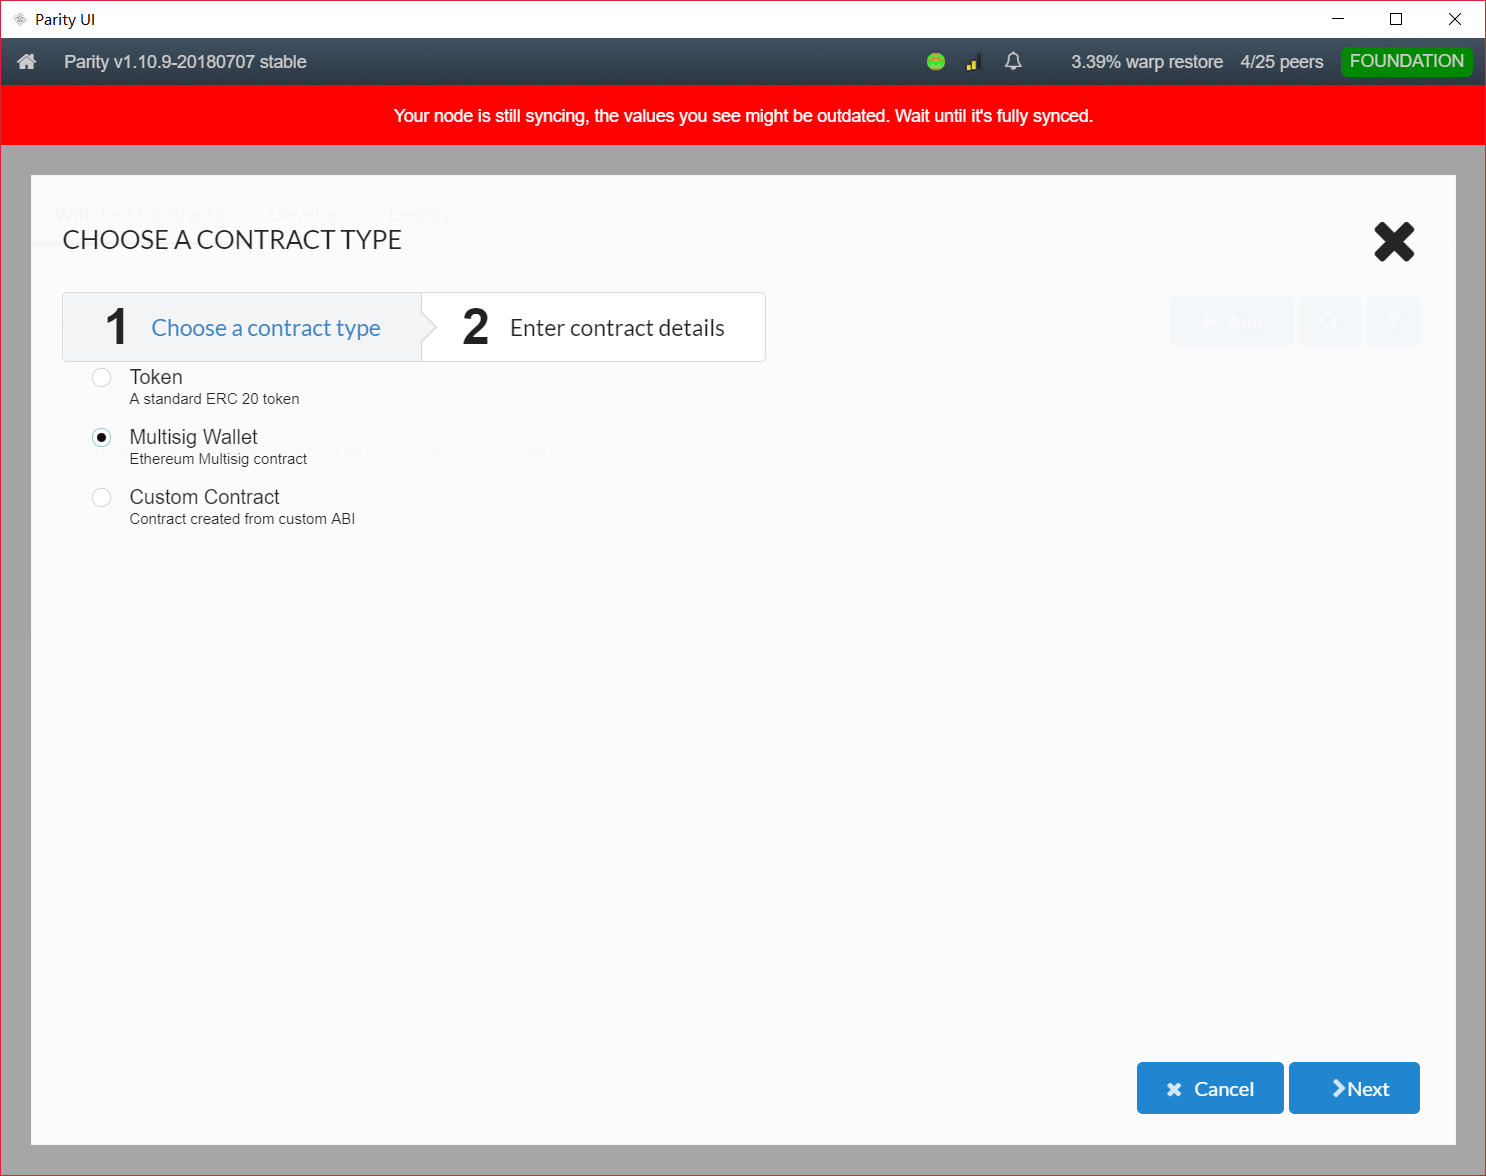
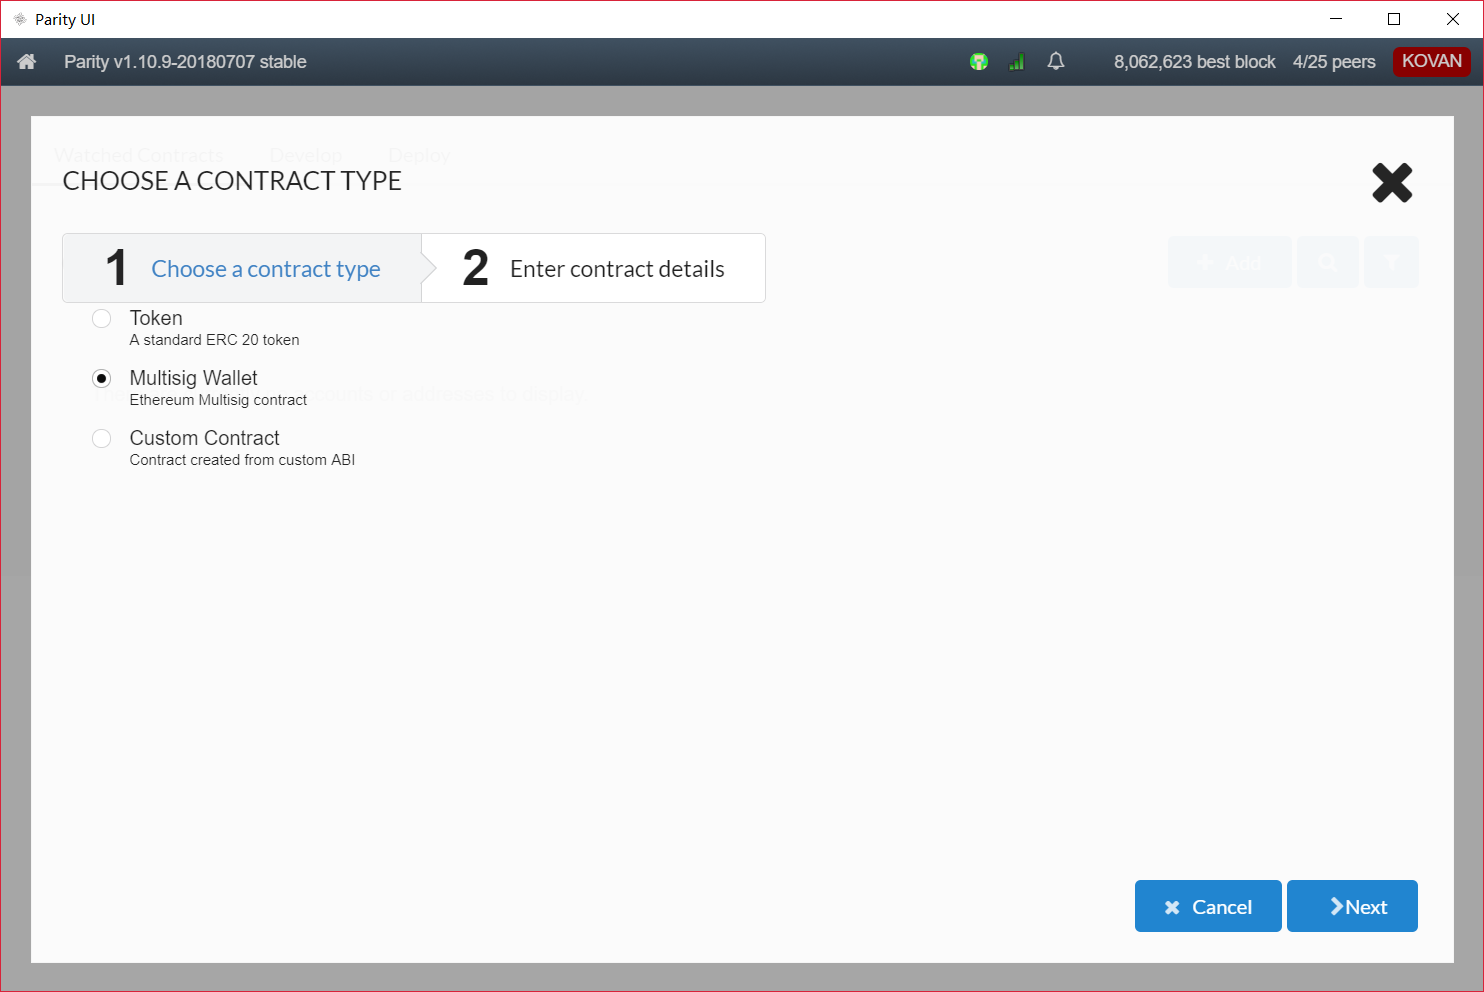
update

diff --git a/ParityMultiSig.md b/ParityMultiSig.md
@@ -10,17 +10,102 @@
 
 ![Alt text](img/Parity_UI/parity_ui_accounts.png)
 
-### 使用
+### 助记词
 
 Parity的助记词只能逐一输入，体验不佳。对比来看，ONTO的助记词是在所给助记词中选择顺序，用户体验比较好。
 
 ![Alt text](/img/Parity_UI/parity_owner_recovery_phrase.png)
 
+### 智能合约编译器
+
+在使用时，Parity提供的智能合约编译器在Kovan测试网中一直无法加载出来。
+
 ## 多重签名
 
-Parity的多重签名基于智能合约实现。
-
-![Alt text](img/Parity_UI/parity_multisig_wallet.png)
+Parity的多重签名基于智能合约`Wallet.sol`实现。
 
 ### Wallet.sol文件
 
+#### 文件结构
+
+> https://github.com/ethereum/dapp-bin/blob/master/wallet/wallet.sol
+
+`Wallet.sol`中包含了4个合约（contract）：
+
+- Wallet.sol
+  - contract multiowned
+  - contract daylimit
+  - contract multisig
+  - contract Wallet
+
+![Alt text](img/Parity_UI/wallel_sol_uml.png)
+
+#### multiowned合约
+
+`multiowned`合约定义了6种事件（Event）：
+
+```
+event Confirmation(address owner, bytes32 operation);
+event Revoke(address owner, bytes32 operation);
+event OwnerChanged(address oldOwner, address newOwner);
+event OwnerAdded(address newOwner);
+event OwnerRemoved(address oldOwner);
+event RequirementChanged(uint newRequirement);
+```
+
+- `OwnerAdded`：用于记录增加钱包所有人操作。
+- `OwnerRemoved`：用于记录删除钱包所有人操作。
+- `OwnerChanged`：用于记录修改钱包所有人操作。
+- `RequirementChanged`：用于记录修改多重签名方案（M-N）操作。
+
+#### multisig合约
+
+`contract multisig`合约定义了4种事件：
+
+```
+event Deposit(address _from, uint value);
+event SingleTransact(address owner, uint value, address to, bytes data);
+event MultiTransact(address owner, bytes32 operation, uint value, address to, bytes data);
+event ConfirmationNeeded(bytes32 operation, address initiator, uint value, address to, bytes data);
+```    
+
+- `Deposit`：用于记录多签钱包中实际存有的资金数量。
+- `SingleTransact`：用于记录从多签钱包中发起的单签交易的相关信息：签名者、资金数量、资金流向、操作的哈希值。
+- `MultiTransact`：用于记录从多签钱包中发起的多签交易的相关信息：最终签名者、资金数量、资金流向、操作的哈希值。
+- `ConfirmationNeeded`：用于记录多签钱包中发起一笔交易还需要的签名数量。
+
+#### daylimit合约
+
+`daylimit`合约未定义事件，提供了5个方法：
+
+```
+function daylimit(uint _limit)
+function setDailyLimit(uint _newLimit)
+function resetSpentToday()
+function underLimit(uint _value)
+function today()
+```
+
+- `function daylimit(uint _limit)`：
+- `function setDailyLimit(uint _newLimit)`：设置每日花费限额（需要多重签名使其生效）。
+- `function resetSpentToday()`：重置今天已经产生的花费（需要多重签名使其生效）。
+- `function underLimit(uint _value)`：
+- `function today()`：确定今天的索引。
+
+### 多签钱包的部署
+
+![Alt text](img/Parity_UI/parity_multisig_wallet.png)
+
+![Alt text](img/Parity_UI/multisig_deploy_1.png)
+
+![Alt text](img/Parity_UI/multisig_deploy_2.png)
+
+![Alt text](img/Parity_UI/multisig_deploy_3.png)
+
+![Alt text](img/Parity_UI/multisig_deploy_4.png)
+
+![Alt text](img/Parity_UI/multisig_deploy_5.png)
+
+![Alt text](img/Parity_UI/multisig_deploy_6.png)
+
+![Alt text](img/Parity_UI/multisig_deploy_7.png)
